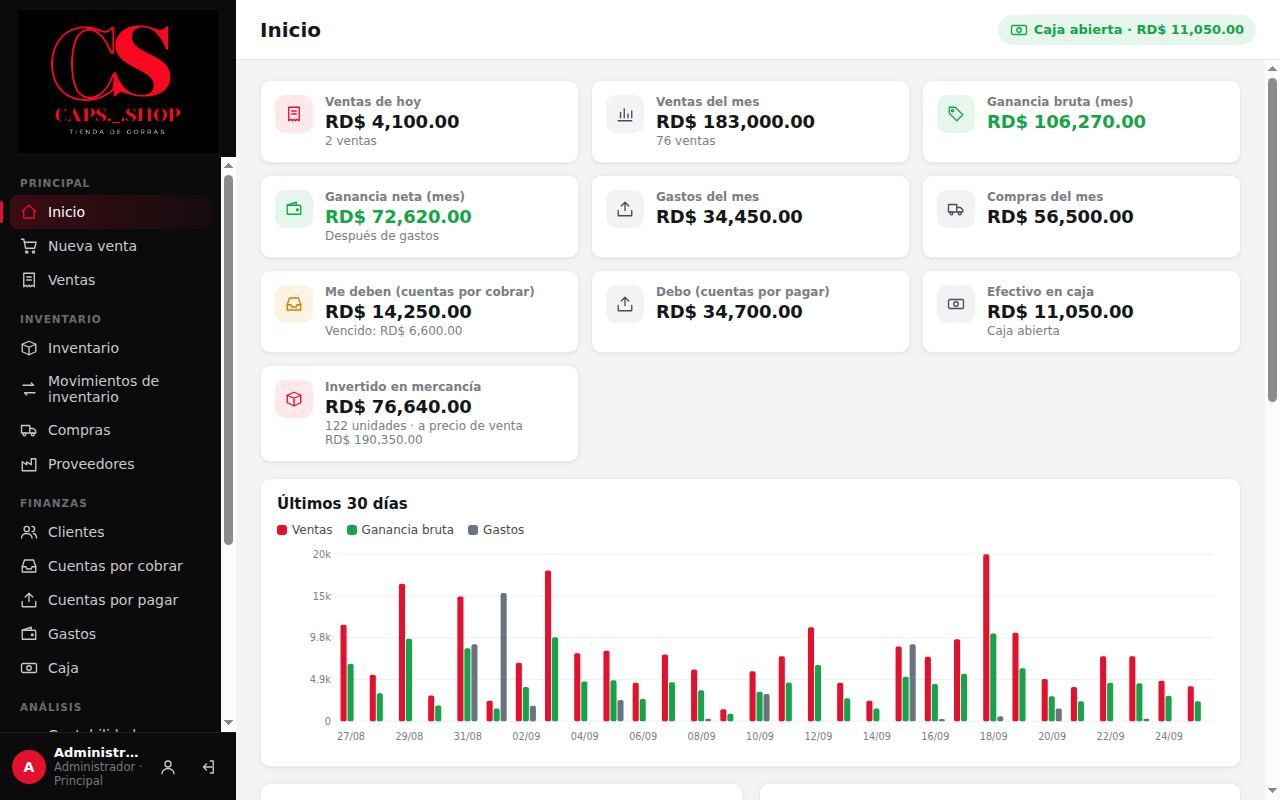
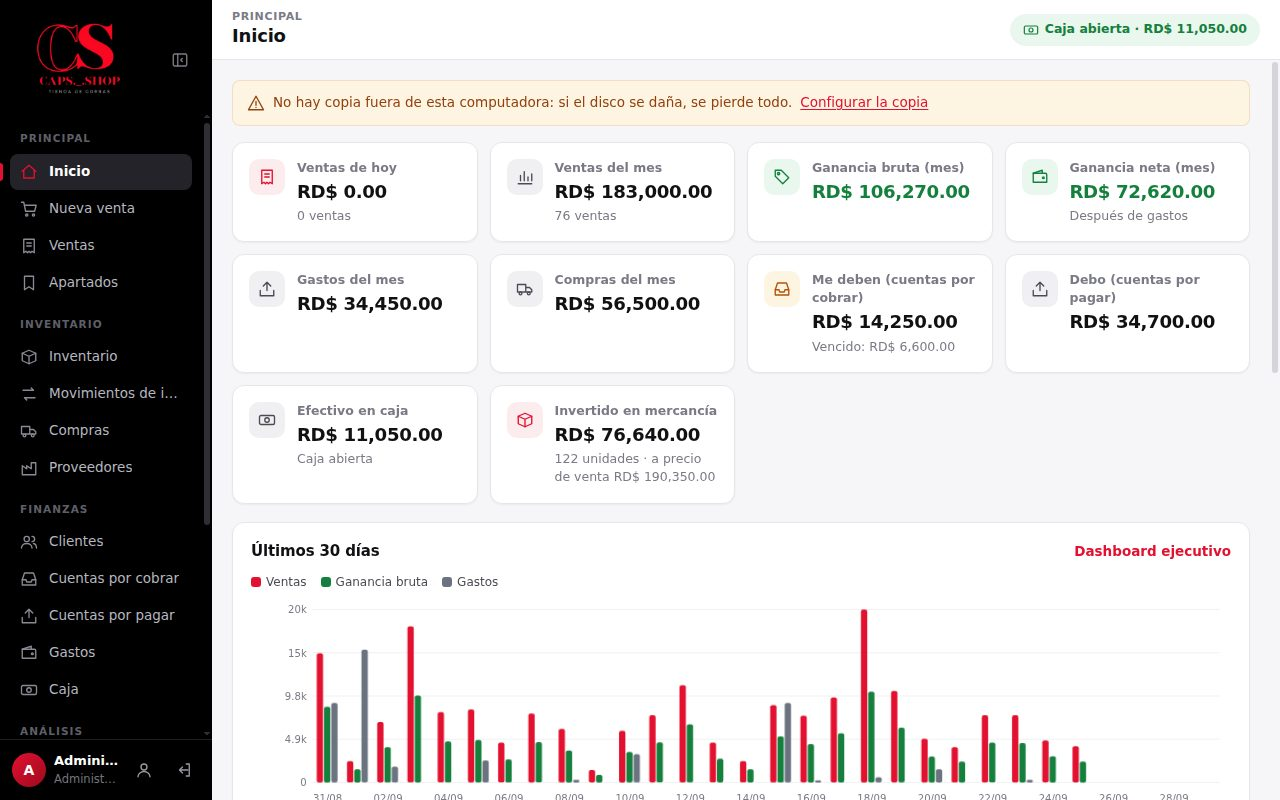
Documentación de la interfaz 1.8: DT-47, arquitectura, rendimiento, manual y CHANGELOG
Claude-Session: https://claude.ai/code/session_01NfanSxm7KPR88aja86sscS

diff --git a/docs/producto/decisiones.md b/docs/producto/decisiones.md
@@ -60,3 +60,4 @@ Registro corto de lo que se decidió y de lo que falta decidir.
 | DT-44 | 29/09/2026 | **Las actualizaciones se instalan en silencio**, sin el asistente de instalación: **Actualizar ahora** cierra el programa unos segundos y lo vuelve a abrir solo; **Al cerrar el programa** descarga mientras se trabaja y se instala sola cuando se cierra. Sigue sin descargarse ni instalarse nada que el administrador no pida (DT-19) | Lo pidió el dueño: para el cliente es incómodo ver que el programa se cierra y le pide instalarlo de nuevo. Instalar al cerrar permite actualizar sin interrumpir la venta |
 | DT-45 | 29/09/2026 | **Marcas, categorías, colores y tallas en tablas propias** (`brands`, `categories`, `colors` con código de color, `sizes` con orden), y cada producto guarda sus claves (`brand_id`, `category_id`, `color_id`, `size_id`). **No se crea una tabla nueva de variantes:** desde la 1.5 cada producto ya es una variante (color + talla) de su modelo (`product_models`), y ventas, compras, devoluciones, apartados, conteos y movimientos ya van por variante. Una combinación no se repite en un modelo (índice único). Los nombres se conservan en el producto para buscar, imprimir y reportar; renombrar en el catálogo los actualiza | Lo pidió el dueño: elegir en vez de escribir evita "Snapback" y "snapback" o "7 1/4" y "7-1/4". Mover el historial a otra tabla de variantes arriesgaba los datos sin ganar nada: la estructura equivalente ya existe |
 | DT-46 | 29/09/2026 | **Formulario de productos simple, sin colores.** Marca, **Modelo** y Categoría son listas con pocas opciones al empezar (5 de cada una) y **+ Crear nuevo…**, que guarda la opción, la deja elegida y no la repite (sin importar mayúsculas ni espacios). El modelo es una lista propia (tabla `models`, migración 10) que no depende de la marca; el producto guarda el nombre del modelo como siempre. Las tallas se marcan con un clic, cada una con su existencia. **Los colores salen del formulario** y de Configuración; los productos que ya tienen color lo conservan (se ve en el detalle, la exportación y al vender). Los montos escritos a mano llevan 2 decimales como máximo, y la rueda del mouse ya no cambia los números | Lo pidió el dueño: el formulario de colores × tallas (DT-45) resultó complicado para la tienda. No se borran columnas ni datos de colores, para no perder nada de lo ya cargado; renombrar marca o modelo recalcula la clave del producto para que sus tallas sigan juntas |
+| DT-47 | 29/09/2026 | **Interfaz más rápida y profesional sin cambiar la tecnología ni la lógica.** Se mantiene JavaScript sin framework ni compilación (no se agrega React ni una librería de animaciones). Se agregan: sistema de diseño con variables, animaciones CSS cortas (120–260 ms, solo `transform` y `opacity`, con "menos movimiento"), tablas que se dibujan por partes y actualizan solo lo que cambia, caché corto de catálogos y clientes, carrito de venta por línea, menú contraíble, esqueletos de carga y estados vacíos | Lo pidió el dueño. Las mediciones mostraron que la base ya respondía en menos de 50 ms: la lentitud estaba en dibujar miles de elementos a la vez y en pedir datos repetidos. Una librería grande agregaría peso y riesgo sin resolver eso |

diff --git a/docs/tecnico/arquitectura.md b/docs/tecnico/arquitectura.md
@@ -99,6 +99,17 @@ Carpeta de datos: `%APPDATA%\CAPS Shop\data`. En pruebas se cambia con la variab
 | `fotos/` | Imágenes de productos (JPEG reducido a 600 px). La base guarda solo el nombre del archivo |
 | `respaldos/` | Copia diaria automática al abrir el programa (`VACUUM INTO`, consistente); se conservan 30. Solo en la PC principal |
 
+## Interfaz: diseño y rendimiento (1.8, DT-47)
+
+- **Sistema de diseño en `styles.css`:** colores, tipografía, radios, sombras y tiempos de animación en variables (`:root`). Botón, campo, tarjeta, tabla, ventana, aviso, estado vacío y esqueleto de carga comparten esas variables. Las animaciones duran 120–260 ms, usan `transform` y `opacity`, y se apagan con la opción de Windows "menos movimiento" (`prefers-reduced-motion`).
+- **Tablas (`table()` en `lib.js`):**
+  - Se dibujan las primeras 60 filas y el resto al bajar (`IntersectionObserver`), hasta 1,000. Más allá sigue "Mostrar todas". Los totales, el Excel y el PDF usan todas las filas.
+  - Al volver a cargar una tabla que ya está en pantalla, `setHTML` cambia solo las celdas distintas (por la clave `data-key`), y la celda modificada se ilumina un momento.
+- **Caché en memoria (`api()`):** los datos que cambian poco (`catalog.list`, `customers.options`) se guardan 60 s. Cualquier operación del mismo módulo que cambia datos los descarta.
+- **Navegación:** cada pantalla se dibuja en una página nueva. Si se cambia rápido de pantalla, lo que termina de cargar una anterior no se mezcla. Si una pantalla tarda más de 120 ms, se ve un esqueleto con su forma; al terminar entra con un fundido corto. Un error muestra el mensaje y "Intentar de nuevo" en la página, sin trabar el menú.
+- **Punto de venta:** el carrito es una fila por línea. Agregar, cambiar la cantidad o quitar toca solo esa fila, y todo se calcula en la pantalla hasta cobrar. La lista de clientes sale de `customers.options`: una consulta agrupada, 5 veces más rápida que `customers.list`.
+- **Formatos:** `Intl.NumberFormat` se crea una sola vez. Las fotos de los productos cargan al aparecer (`loading="lazy"`).
+
 ## Seguridad
 
 - **Ventana:** `contextIsolation`, `sandbox` y sin `nodeIntegration`. La interfaz solo ve `window.capsApi`.

diff --git a/CHANGELOG.md b/CHANGELOG.md
@@ -4,6 +4,17 @@ Formato basado en [Keep a Changelog](https://keepachangelog.com/es-ES/1.1.0/). V
 
 ## Sin publicar
 
+### Cambiado
+- **Interfaz más rápida y moderna** (DT-47). Todo funciona igual; cambia cómo se ve y cuánto tarda:
+  - **Diseño unificado:** los mismos colores, letras, bordes y sombras en botones, campos, tarjetas, tablas, ventanas y avisos. Los colores fuertes quedan para acciones, estados y alertas.
+  - **Menú lateral contraíble** (solo iconos, con el nombre al pasar el mouse); se recuerda en cada PC. En la ventana más chica empieza contraído. Arriba se ve la sección y el nombre de la pantalla.
+  - **Animaciones cortas y suaves:** ventanas que aparecen y se van con un fundido, avisos con ✓ o ✗, líneas del carrito que entran y salen, el total que "late" al cambiar, los indicadores del Inicio que cuentan hasta su valor, barras del gráfico que crecen. Con "menos movimiento" de Windows se apagan.
+  - **Tablas más ligeras:** las listas largas muestran las primeras filas al instante y cargan el resto al bajar. Al editar un producto cambia solo su fila, que se ilumina un momento.
+  - **Nueva venta al instante:** agregar una gorra, cambiar la cantidad o quitarla toca solo esa línea, sin redibujar el carrito. Muestra cuántos artículos lleva. La lista de clientes se abre 5 veces más rápido.
+  - **Nuevo producto por secciones:** Información general, Inventario, Precios (con el margen al detalle en vivo) y Otros (foto y notas).
+  - **Cargas y errores:** si una pantalla tarda, se ve su forma mientras carga, en vez de una página en blanco. Si falla, un mensaje con "Intentar de nuevo". Las listas vacías explican qué hacer ("No hay productos todavía" con el botón para crear el primero).
+  - Medido con 3 años de datos: Nueva venta abre en 12 ms (antes 95), Inventario en 91 ms (antes 264), Caja en 34 ms (antes 100). Movimientos y Caja dibujan 1,700 elementos en vez de 14,000.
+
 ## [1.7.0] - 2026-09-29
 
 Productos con un formulario simple (marca, modelo, categoría y tallas) y actualizaciones sin ventanas de instalación. Se instala encima de la 1.6.1 o desde Configuración → Actualizaciones; la base pasa sola a la versión 10 sin perder datos.

diff --git a/docs/tecnico/rendimiento.md b/docs/tecnico/rendimiento.md
@@ -116,7 +116,28 @@ Con la migración 8. Las métricas del CRM de todos los clientes salen de una so
 | Cumpleaños de los próximos 30 días | 8.3 |
 | Inicio (administrador / vendedor), con los cumpleaños de la semana | 27.5 / 20.7 |
 
+## Interfaz de la 1.8 (29/09/2026)
+
+Hasta aquí se medía la base. En la 1.8 se midió también cuánto tarda **la pantalla** en abrir, con la aplicación real sobre la base de 3 años (Electron en Linux sin aceleración gráfica, más lento que una PC de la tienda). La base ya respondía en menos de 50 ms; lo que tardaba era dibujar.
+
+| Pantalla | Antes (ms) | Después (ms) | Elementos dibujados, antes → después |
+|---|---:|---:|---|
+| Nueva venta | 95 | 12 | Clientes: `customers.options` en vez de `customers.list` (32 → 5 ms) |
+| Inventario | 264 | 91 | 3,118 → ~1,200 (60 filas de entrada) |
+| Caja (historial de cierres) | 100 | 34 | 15,038 → 1,840 |
+| Movimientos de inventario | 16 | 3 | 14,054 → 1,736 |
+| Clientes | 80 | 60 | 6,665 → 2,038 |
+
+Lo que se hizo:
+- Tablas por partes: 60 filas de entrada y el resto al bajar.
+- Formatos de número creados una sola vez.
+- Sin el selector `:has()` en elementos de tabla.
+- Carrito de venta por línea.
+- Caché de catálogos y de clientes.
+
+La operación **Clientes para elegir (venta, apartado)** agregada a `npm run test:perf` tarda 5.9 ms.
+
 ## Qué vigilar
 
 - **Listas sin paginar:** algunas listas muestran todas las filas del período (Ventas del año: unas 4,800). Hoy dibujan en menos de 0.3 s. Si la tienda crece mucho, conviene paginar.
-- **Historial de movimientos y listas largas:** desde la 1.2.0 traen todas las filas del período. La pantalla dibuja las primeras 1,000 y ofrece **Mostrar todas**; los totales, el CSV y el PDF usan todas.
+- **Historial de movimientos y listas largas:** desde la 1.2.0 traen todas las filas del período. La pantalla dibuja las primeras 60, agrega más al bajar hasta 1,000 y ofrece **Mostrar todas**; los totales, el CSV y el PDF usan todas.

diff --git a/docs/tecnico/desarrollo-y-publicacion.md b/docs/tecnico/desarrollo-y-publicacion.md
@@ -61,7 +61,7 @@ npm run dist:dir     # aplicación empaquetada sin instalador (cualquier sistema
 | `network.test.js` | Dos instancias: principal y conectada, venta, caja de la otra PC, fotos por la red, sin conexión y reconexión |
 | `setup.test.js` | Instalación nueva en la ventana más pequeña; cambio obligatorio de contraseña; copia y restauración; diagnóstico sin secretos; fotos que faltan; copia fuera de la PC y aviso del Inicio |
 | `o5.test.js` | Depósito al banco, saldo inicial, aportes, importar desde CSV, etiquetas, impresora de recibos, historial en español y recuperar la contraseña con el código |
-| `auditoria.test.js` | Tablas de más de 1,000 filas (aviso, totales y "Mostrar todas"), anular un movimiento de caja y un abono, y un producto sin precio en la venta |
+| `auditoria.test.js` | Tablas grandes: 60 filas de entrada y el resto al bajar, aviso a partir de 1,000, totales y "Mostrar todas", anular un movimiento de caja y un abono, y un producto sin precio en la venta |
 | `o6.test.js` | Conteo de inventario con el lector y a mano, borrador que sobrevive al salir, revisar y aplicar |
 | `controles.test.js` | Motivo al abrir la caja, depósitos por verificar desde el aviso del Inicio, crédito autorizado por el administrador, compra a costo 0 confirmada, cliente con deuda que no se desactiva, CSV sin fórmulas, ninguna pantalla desbordada a 1,100 px, navegación bloqueada, y copia externa con contraseña y su restauración |
 | `excel.test.js` | Exportar a Excel el inventario y dos reportes (franja con el período, totales, números y lo que se ve en pantalla en vez de códigos), a CSV si se elige, y el mensaje cuando el archivo no se puede escribir |

diff --git a/docs/manual/01-primeros-pasos.md b/docs/manual/01-primeros-pasos.md
@@ -41,6 +41,8 @@ El sistema viene con dos usuarios:
 
 Para cambiar la contraseña más adelante, use el ícono de persona al pie del menú izquierdo. Para salir, use el ícono de salida al lado.
 
+El botón que está al lado del logo **contrae el menú**: quedan solo los iconos (al pasar el mouse se ve el nombre) y la pantalla gana espacio. Púlselo otra vez para abrirlo. Cada PC recuerda cómo lo dejó. Si la ventana es chica, el menú empieza contraído.
+
 ## 1.4 Configurar el negocio
 
 Vaya a **Configuración** (menú **Sistema**).

diff --git a/docs/manual/04-inventario.md b/docs/manual/04-inventario.md
@@ -33,7 +33,7 @@ Menú **Inventario** → **Inventario**.
 
 ## 4.2 Crear un producto (administrador)
 
-**Inventario** → **Nuevo producto**. Es un formulario corto:
+**Inventario** → **Nuevo producto**. Es un formulario corto, en cuatro secciones: **Información general**, **Inventario**, **Precios** (muestra el margen al detalle mientras escribe) y **Otros** (foto y notas):
 
 ![Nuevo producto](img/producto-variantes.jpg)
 
